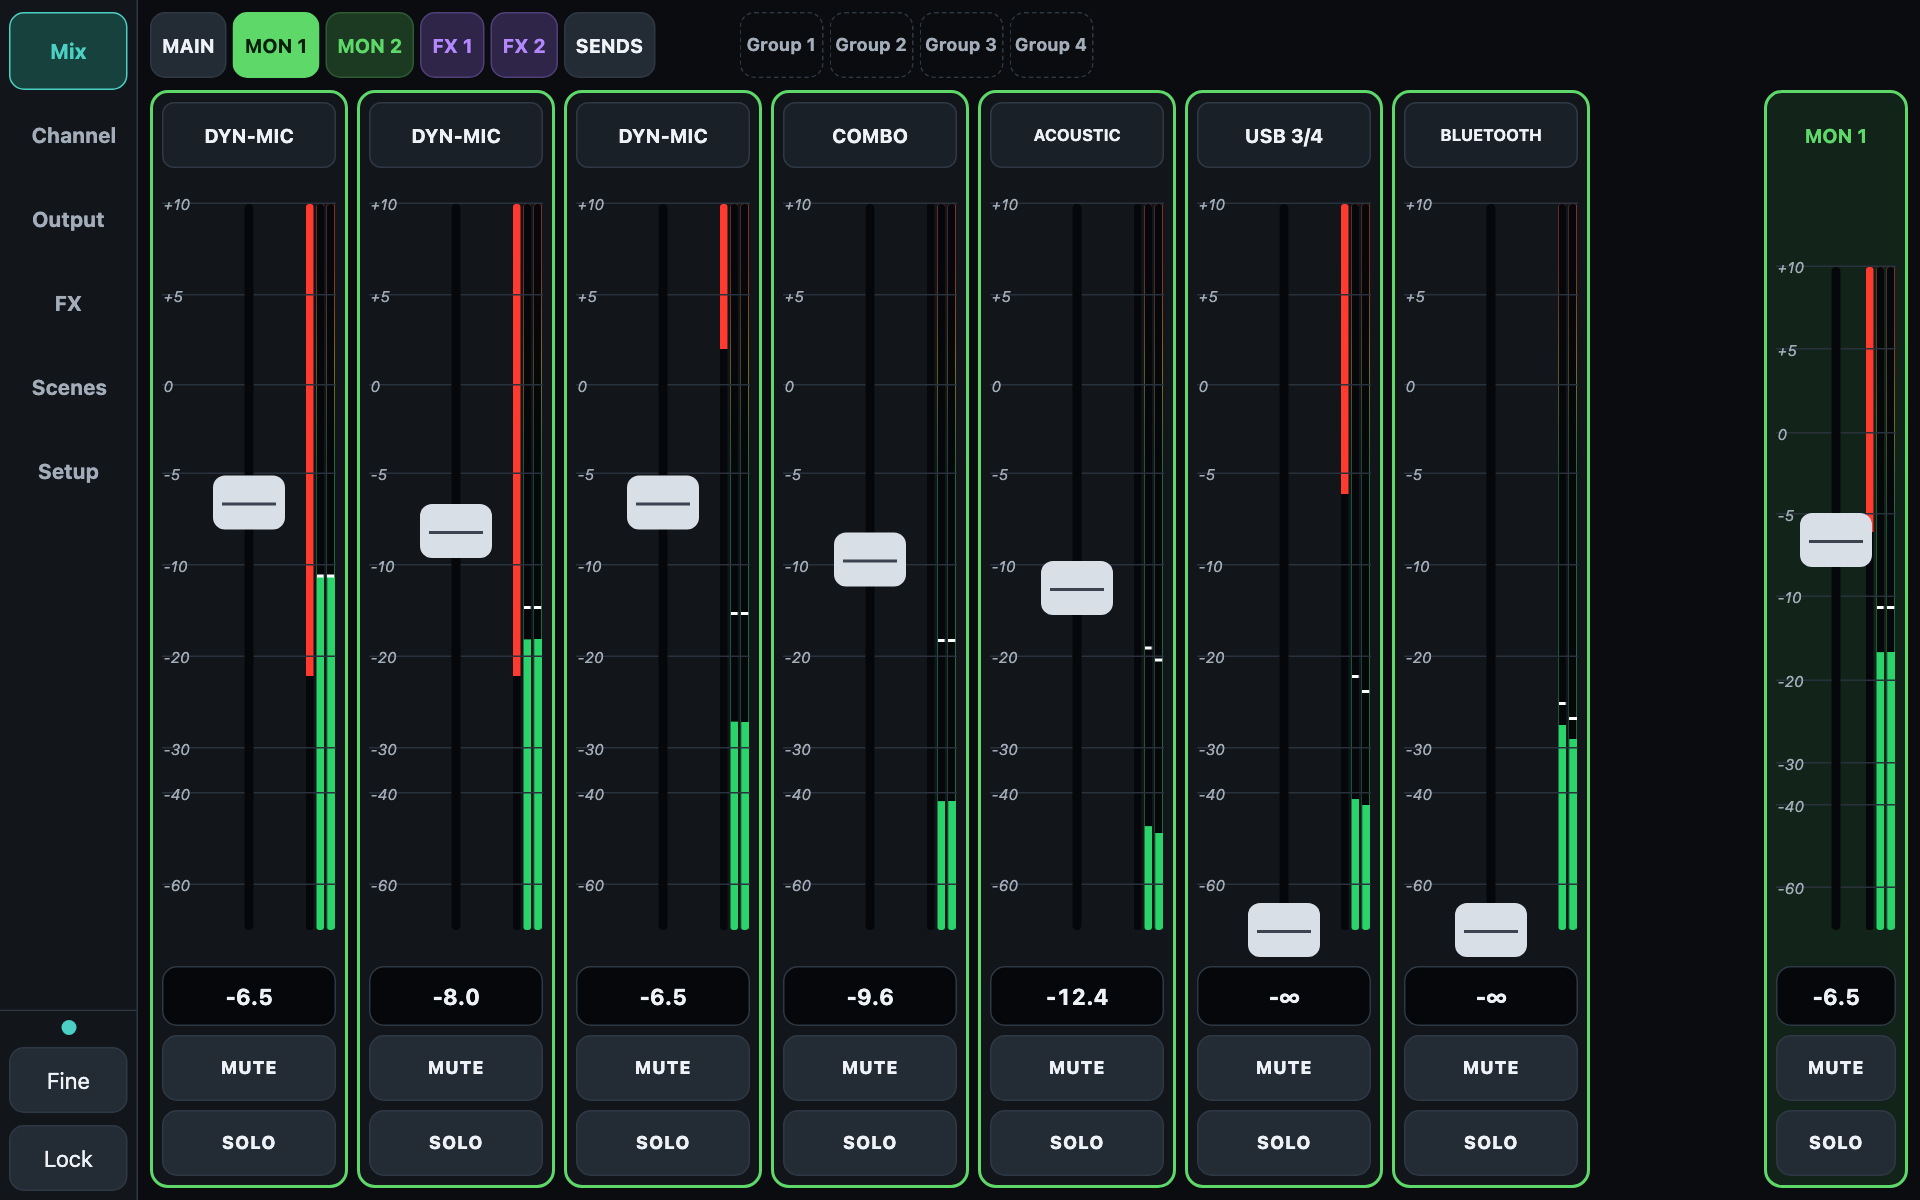
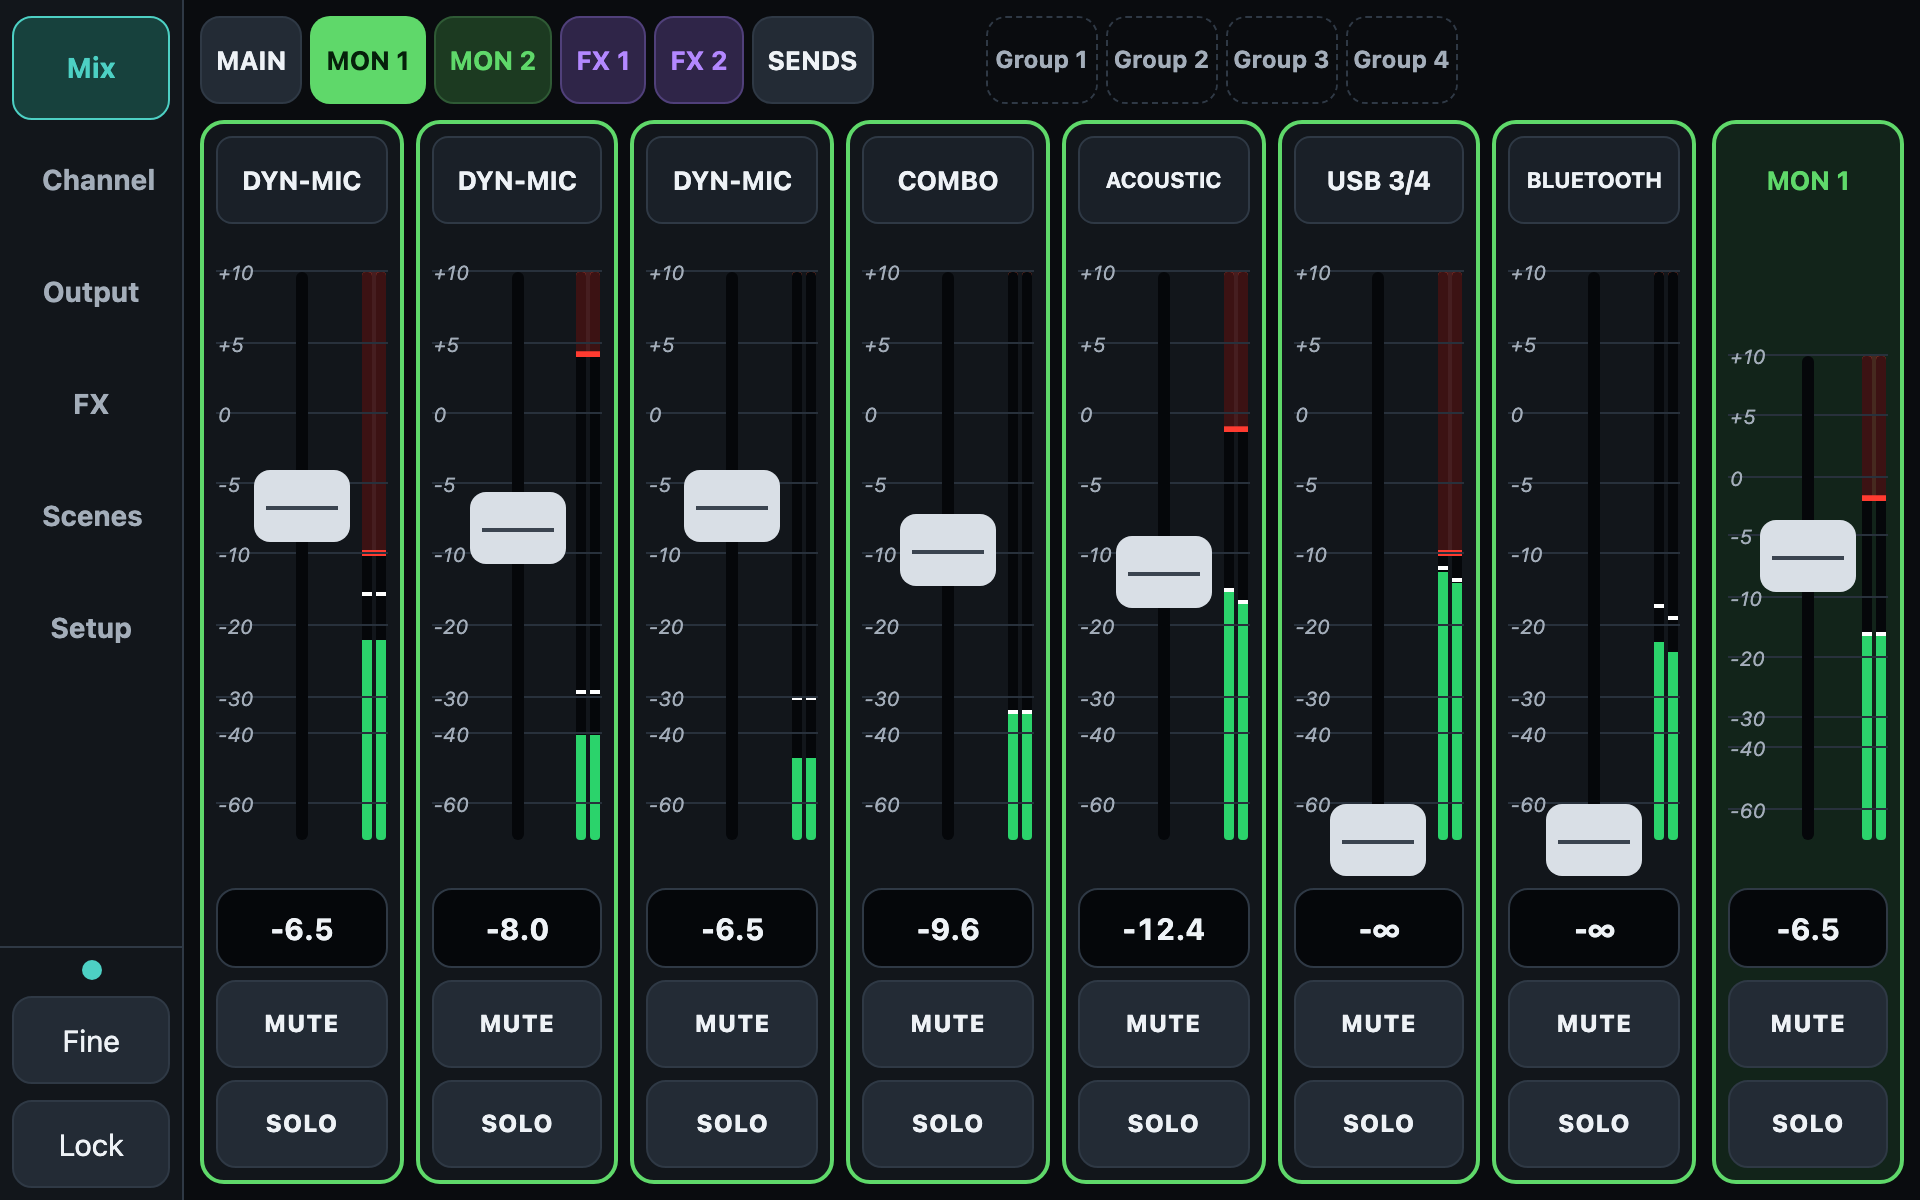
Refresh screenshots for 1.0.5: output EQ modes, full-screen EQ, phone layouts

diff --git a/README.md b/README.md
@@ -1,8 +1,8 @@
 # ReFlo+
 
-A free, touch-first controller for the Behringer Flow 8, built for working live techs. Fader strips for every mix, a drag-to-edit parametric EQ, graphic EQ, FX control, output limiter and delay, a sends matrix, scenes and mute groups, over Bluetooth, on your phone or tablet.
+A free, touch-first controller for the Behringer Flow 8, built for working live techs. Fader strips for every mix, a drag-to-edit parametric EQ with a full-screen mode, an output EQ that works as a nine-band GEQ or fully parametric, FX control, output limiter and delay, a sends matrix, scenes and mute groups, over Bluetooth, on your phone or tablet.
 
-![ReFlo+ mix screen (simulated mixer)](screenshots/01-mix-main.png)
+![ReFlo+ mix screen (demo)](screenshots/01-mix-main.png)
 
 **Free to download and use. No account, no ads, no tracking, no internet needed.**
 
@@ -20,10 +20,10 @@ Tap **Try the demo** on the first screen to run the whole app against a pretend 
 
 ## Screenshots
 
-All taken with the built-in simulator, so the levels are demo values. Tablet in landscape, plus portrait for phones.
+All taken with the built-in demo (a pretend Flow 8), so the levels are demo values. Tablet in landscape first, then phone.
 
 ### Mix
-Fader strips for every mix, with level meters and a red gain-reduction bar. Four mute-group buttons sit beside the mix selector.
+Fader strips for every mix, with level meters and a gain-reduction overlay that hangs from the top of each meter (a light red body with a solid edge showing how far it reaches). Four mute-group buttons sit beside the mix selector.
 
 ![Main mix](screenshots/01-mix-main.png)
 
@@ -41,31 +41,45 @@ Every input against every mix on one screen, FX returns included.
 ![Sends matrix](screenshots/04-sends-matrix.png)
 
 ### Channel
-Headamp, a drag-to-edit parametric EQ with low cut, and the channel's own fader and meter.
+Headamp, a drag-to-edit four-band parametric EQ with low cut (every band has its own frequency, gain and Q), and the channel's own fader and meter.
 
 ![Channel and EQ](screenshots/05-channel-eq.png)
 
-### Output
-Graphic EQ for Main and the monitors. Limiter and delay are locked until you unlock them.
+The amber **Expand** button opens the EQ full screen, with a close-up scale (±15 or ±8 dB), the band editor and the channel fader. **Close** returns you.
 
-![Main output](screenshots/06-output-main.png)
+![Full-screen channel EQ](screenshots/06-eq-fullscreen.png)
 
-![Monitor output](screenshots/07-output-monitor.png)
+### Output EQ
+Each output (Main, Mon 1, Mon 2) has two modes. **GEQ** is nine fixed octave bands: drag up and down, or paint across several bands.
+
+![Output EQ in GEQ mode](screenshots/07-output-geq.png)
+
+**Parametric** makes each of the nine nodes a bell with its own frequency, gain and Q: drag a node (sideways is frequency, up and down is gain), pinch or scroll for Q, or use the editor row. Lock frequencies and Reset are there too, and Main has a Balance slider. Limiter and delay are locked until you unlock them.
+
+![Output EQ in Parametric mode](screenshots/08-output-parametric.png)
+
+![Full-screen output EQ](screenshots/11-output-fullscreen.png)
 
 ### FX
-Presets by name, parameters, routing and the return fader.
+Presets by name, parameters, routing and the return fader. Delay effects get a tempo card, and the TAP button flashes on every beat.
 
-![FX](screenshots/08-fx.png)
+![FX](screenshots/09-fx-tempo.png)
 
 ### Scenes
 The mixer's snapshot slots plus a local library, 50 in total.
 
-![Scenes](screenshots/09-scenes.png)
+![Scenes](screenshots/10-scenes.png)
 
-### Portrait
-On phones and narrow tablets the navigation moves to the bottom.
+### On a phone
+The app fits itself to your screen (Setup has a UI size slider if you want it bigger or smaller). In landscape, all the channels plus Main fit on screen.
 
-<img src="screenshots/10-portrait-mix.png" width="320"> <img src="screenshots/11-portrait-channel.png" width="320">
+![Phone, landscape mix](screenshots/12-phone-landscape-mix.png)
+
+![Phone, landscape channel](screenshots/13-phone-landscape-channel.png)
+
+In portrait the navigation moves to the bottom.
+
+<img src="screenshots/14-phone-portrait-mix.png" width="300"> <img src="screenshots/15-phone-portrait-channel.png" width="300">
 
 ## Good to know
 
